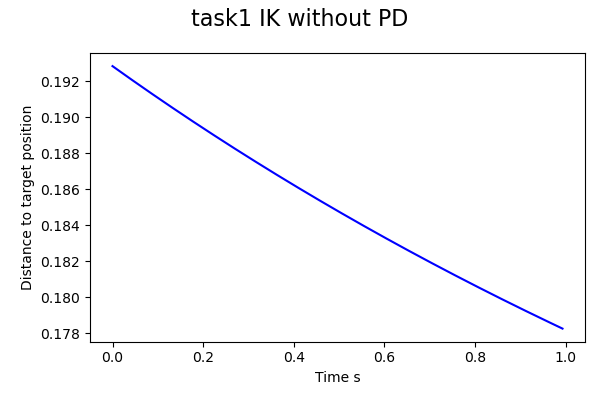
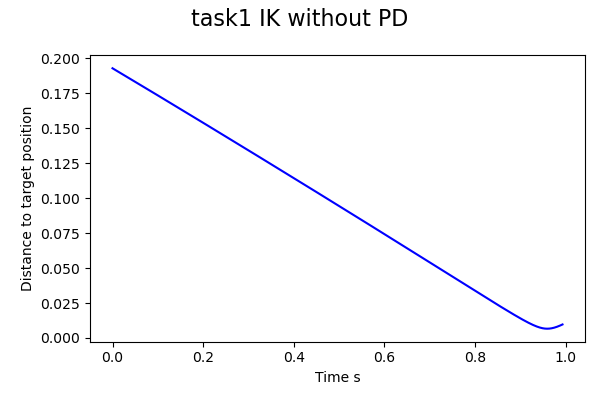
did i fix it?

diff --git a/core/Pybullet_Simulation.py b/core/Pybullet_Simulation.py
@@ -200,7 +200,8 @@ class Simulation(Simulation_base):
 
         for j in joints:
             RotAxis = self.getJointAxis(j)
-            PosJon = self.getJointPos(j)
+            PosJon = self.getJointPosition(j).flatten()
+            print(EFPos-PosJon)
             newcol = np.cross(RotAxis, (EFPos - PosJon)).flatten()
             jacobian[n] = newcol
             n+=1
@@ -235,7 +236,8 @@ class Simulation(Simulation_base):
         for n in range(1,interpolationSteps):
             newGoal = TargetPositions[n, :]
             dy = newGoal - EFpos
-            jacobian = self.jacobianMatrix(EFpos, endEffector)
+            jacobian = np.array(self.jacobianMatrix(EFpos, endEffector))
+            print(EFpos)
             dq = np.matmul(np.linalg.pinv(jacobian), dy)
             angles = list(self.convertAngle(np.array(traj[n-1])+dq))
             traj.append(angles)
